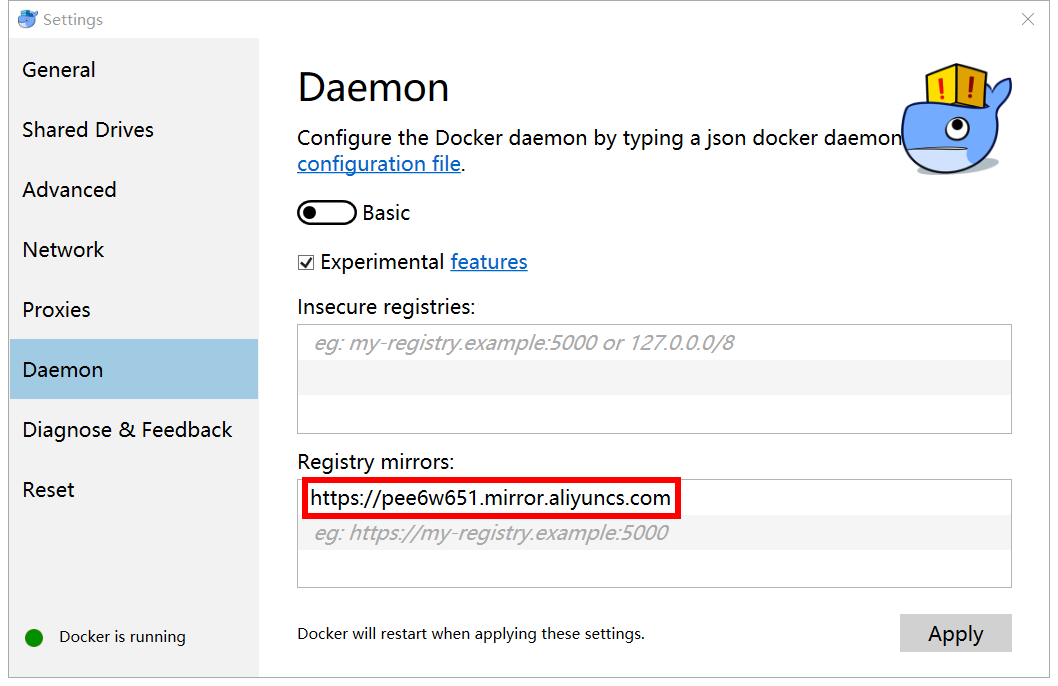
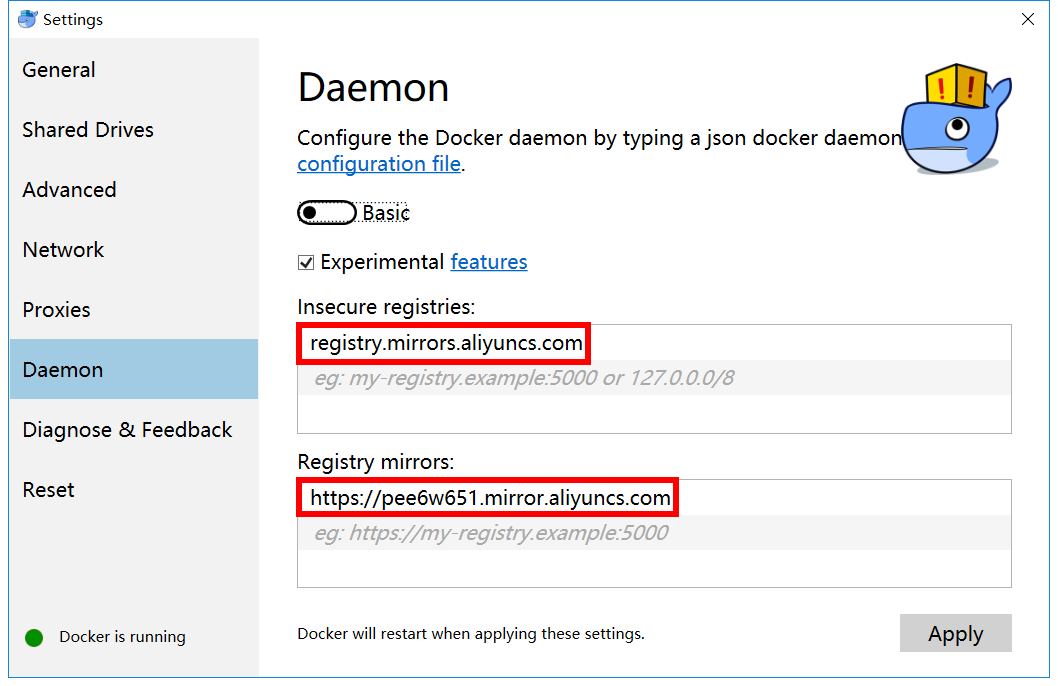
修改介绍

diff --git a/thunder-spring-boot-docker-example/README.md b/thunder-spring-boot-docker-example/README.md
@@ -18,11 +18,16 @@
 
     3 加速Docker(可选)
       3.1 Docker默认从国外的Mirror站点下载镜像，如果您觉得下载速度很慢，可以把它改成从阿里云的Mirro站点
-          在Docker图标上右键菜单，选Settings->Daemon，在Registry mirros里填入https://pee6w651.mirror.aliyuncs.com，见图1
+          在Docker图标上右键菜单，选Settings->Daemon，见图1
+          在Insecure registries里填入registry.mirrors.aliyuncs.com，
+          在Registry mirros里填入https://pee6w651.mirror.aliyuncs.com
 
     4 开启Docker非认证模式
       4.1 在Docker图标上右键菜单，选Settings->General，把“Expose daemon on tcp//localhost:2375 without TLS”打勾，见图2
       4.2 禁止Docker认证模式，例如，把“DOCKER_CERT_PATH=...”注释掉
+
+    5 Win10防火墙设置(注意)
+      5.1 Win10防火墙有时候会把Docker服务的可执行程序误认为木马病毒，需要把它设置为允许的项目，切记，见图6
 
 ### 开始部署
 
@@ -90,6 +95,9 @@
 
 图5
 ![Alt text](https://github.com/Nepxion/Thunder/blob/master/thunder-spring-boot-docker-example/Docker5.jpg)
+
+图6
+![Alt text](https://github.com/Nepxion/Thunder/blob/master/thunder-spring-boot-docker-example/Win10.jpg)
 
 ## 附录附录Docker命令
 注意：镜像版本的参数可能不是必需的
